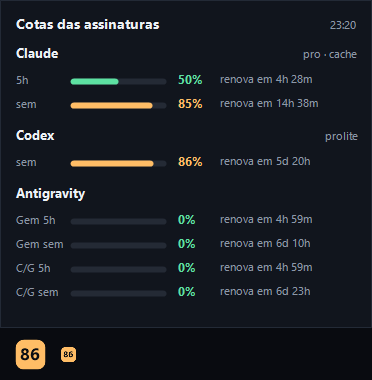
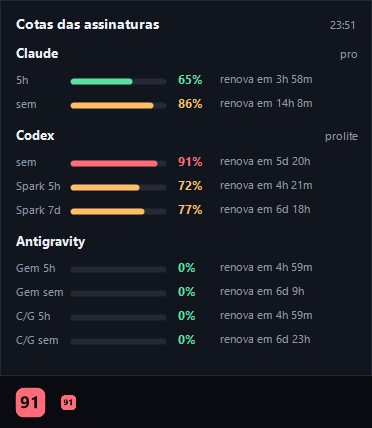
Adiciona cotas do Codex Spark ao TokenBar

diff --git a/src/test/codexSpark.ts b/src/test/codexSpark.ts
@@ -1,0 +1,110 @@
+import * as assert from 'assert/strict';
+import { CodexCollector } from '../collectors/codex';
+import { restoreSnapshot, UsageSnapshot, worstCurrentUsage } from '../usage';
+import { UsageManager } from '../usageManager';
+import { renderDashboard } from '../webview/render';
+
+const NOW = Date.parse('2026-09-06T03:00:00Z');
+const primary = { usedPercent: 40, windowDurationMins: 300, resetsAt: NOW / 1000 + 5 * 3600 };
+const secondary = { usedPercent: 62, windowDurationMins: 10_080, resetsAt: NOW / 1000 + 7 * 86400 };
+const codex = { limitId: 'codex', planType: 'pro', primary: { ...secondary, usedPercent: 20 }, secondary: null };
+const spark = { limitId: 'codex_bengalfox', limitName: 'GPT-5.3-Codex-Spark', planType: 'pro', primary, secondary };
+
+function fixture(response: unknown): CodexCollector {
+  const collector = new CodexCollector();
+  (collector as any).readRateLimits = async () => response;
+  return collector;
+}
+
+export async function runCodexSparkTests(): Promise<number> {
+  let passed = 0;
+  const check = async (name: string, run: () => void | Promise<void>) => {
+    await run(); passed++; console.log(`PASS: ${name}`);
+  };
+
+  await check('Codex inclui Spark sem duplicar a cota principal ou fazer outra consulta', async () => {
+    let calls = 0;
+    const collector = new CodexCollector();
+    (collector as any).readRateLimits = async () => { calls++; return { rateLimits: codex, rateLimitsByLimitId: { codex, codex_bengalfox: spark } }; };
+    const result = await collector.collect();
+    assert.equal(calls, 1); assert.equal(result.status, 'ok'); assert.equal(result.plan, 'pro');
+    assert.deepEqual(result.windows.map(window => window.id), ['codex_primary', 'codex_bengalfox_primary', 'codex_bengalfox_secondary']);
+    assert.deepEqual(result.windows.map(window => window.usedPercent), [20, 40, 62]);
+    assert.deepEqual(result.windows.map(window => window.shortLabel), [undefined, 'Spark 5h', 'Spark 7d']);
+    assert.equal(result.windows[1].label, 'Janela de 5 horas · Spark');
+    assert.equal(result.windows[2].label, 'Janela semanal · Spark');
+    assert.equal(result.windows[1].resetsAt, new Date(primary.resetsAt * 1000).toISOString());
+  });
+
+  await check('Codex prioriza a visão por limite e aceita Spark identificado pela chave ou pelo nome', async () => {
+    for (const bucket of [
+      { ...spark, limitId: null, limitName: null },
+      { ...spark, limitId: 'outro_id_do_modelo' }
+    ]) {
+      const result = await fixture({ rateLimits: { ...codex, primary: { ...primary, usedPercent: 99 } },
+        rateLimitsByLimitId: { codex: { ...codex, limitId: null }, codex_bengalfox: bucket } }).collect();
+      assert.equal(result.windows.length, 3); assert.equal(result.windows[0].usedPercent, 20);
+      assert.equal(result.windows[1].shortLabel, 'Spark 5h');
+      assert.equal(new Set(result.windows.map(window => window.id)).size, 3);
+    }
+  });
+
+  await check('Codex preserva respostas legadas e contas sem Spark sem inventar janelas', async () => {
+    for (const response of [{ rateLimits: codex }, { rateLimitsByLimitId: { codex } }, { rateLimits: codex, rateLimitsByLimitId: null }]) {
+      const result = await fixture(response).collect();
+      assert.equal(result.status, 'ok'); assert.equal(result.windows.length, 1); assert.equal(result.windows[0].shortLabel, undefined);
+    }
+    const empty = await fixture({ rateLimitsByLimitId: {} }).collect();
+    assert.equal(empty.status, 'unavailable'); assert.deepEqual(empty.windows, []);
+    const emptySpark = await fixture({ rateLimits: codex, rateLimitsByLimitId: { codex_bengalfox: { ...spark, primary: null, secondary: null } } }).collect();
+    assert.equal(emptySpark.windows.length, 1);
+  });
+
+  await check('Spark funciona como única cota e não se duplica entre os dois formatos', async () => {
+    for (const response of [
+      { rateLimits: spark },
+      { rateLimitsByLimitId: { codex_bengalfox: spark } },
+      { rateLimits: { ...spark, limitId: null }, rateLimitsByLimitId: { codex_bengalfox: spark } }
+    ]) {
+      const result = await fixture(response).collect();
+      assert.equal(result.windows.length, 2); assert.deepEqual(result.windows.map(window => window.usedPercent), [40, 62]);
+      assert.equal(result.windows[0].shortLabel, 'Spark 5h');
+    }
+  });
+
+  await check('Codex não inclui reservas ou outras cotas junto de Codex e Spark', async () => {
+    const reserve = { ...spark, limitId: 'base_model_inference', limitName: 'gpt-reserve' };
+    const result = await fixture({ rateLimits: codex, rateLimitsByLimitId: { codex, codex_bengalfox: spark,
+      base_model_inference: reserve, other: { ...reserve, limitId: 'other', limitName: 'other' } } }).collect();
+    assert.equal(result.windows.length, 3);
+    const fallback = await fixture({ rateLimitsByLimitId: { base_model_inference: reserve, codex_bengalfox: spark } }).collect();
+    assert.equal(fallback.windows.length, 2); assert.ok(fallback.windows.every(window => window.shortLabel?.startsWith('Spark')));
+  });
+
+  await check('Resposta inválida do Spark mantém o último snapshot válido e recupera depois', async () => {
+    const collector = fixture({ rateLimits: codex, rateLimitsByLimitId: { codex_bengalfox: spark } });
+    const previous = await collector.collect();
+    const manager = new UsageManager({ collectedAt: previous.collectedAt, providers: [previous] }, { collectors: [collector] });
+    for (const invalid of [{ ...primary, usedPercent: 'invalid' }, { ...primary, resetsAt: 'invalid' }, { ...primary, windowDurationMins: -1 }]) {
+      (collector as any).readRateLimits = async () => ({ rateLimits: codex, rateLimitsByLimitId: { codex_bengalfox: { ...spark, primary: invalid } } });
+      await manager.refresh();
+      const result = manager.getSnapshot().providers[0];
+      assert.equal(result.failureKind, 'invalid-response'); assert.equal(result.stale, true);
+      assert.equal(result.collectedAt, previous.collectedAt); assert.deepEqual(result.windows, previous.windows);
+    }
+    (collector as any).readRateLimits = async () => ({ rateLimits: codex, rateLimitsByLimitId: { codex_bengalfox: spark } });
+    await manager.refresh(); assert.equal(manager.getSnapshot().providers[0].status, 'ok');
+  });
+
+  await check('Dashboard, persistência e maior uso reconhecem as janelas do Spark', async () => {
+    const provider = await fixture({ rateLimits: codex, rateLimitsByLimitId: { codex_bengalfox: spark } }).collect();
+    const snapshot: UsageSnapshot = { collectedAt: provider.collectedAt, providers: [provider] };
+    const restored = restoreSnapshot(JSON.parse(JSON.stringify(snapshot)))!;
+    assert.equal(restored.providers[0].windows[2].shortLabel, 'Spark 7d');
+    const html = renderDashboard(restored, { interactive: false, now: NOW });
+    assert.ok(html.includes('Janela de 5 horas · Spark')); assert.ok(html.includes('Janela semanal · Spark'));
+    assert.ok(html.includes('62% usado')); assert.equal(worstCurrentUsage(restored, NOW)?.window.id, 'codex_bengalfox_secondary');
+    assert.equal(worstCurrentUsage(restored, NOW + 8 * 86400_000), undefined);
+  });
+  return passed;
+}

diff --git a/src/collectors/codex.ts b/src/collectors/codex.ts
@@ -20,8 +20,28 @@ interface RateLimitSnapshot {
 }
 
 interface RateLimitResponse {
-  rateLimits: RateLimitSnapshot;
+  rateLimits?: RateLimitSnapshot | null;
   rateLimitsByLimitId?: Record<string, RateLimitSnapshot> | null;
+}
+
+function isSparkLimit(snapshot: RateLimitSnapshot): boolean {
+  return snapshot.limitId === 'codex_bengalfox'
+    || [snapshot.limitId, snapshot.limitName].some(value => typeof value === 'string' && /(?:^|[-_\s])spark(?:$|[-_\s])/i.test(value));
+}
+
+function selectCodexLimits(result: RateLimitResponse): RateLimitSnapshot[] {
+  const buckets = Object.entries(result.rateLimitsByLimitId ?? {})
+    .map(([id, snapshot]) => ({ ...snapshot, limitId: snapshot.limitId ?? id }));
+  const main = buckets.find(snapshot => snapshot.limitId === 'codex') ?? result.rateLimits;
+  const snapshots = new Map<string, RateLimitSnapshot>();
+  const include = (snapshot: RateLimitSnapshot) => snapshots.set(isSparkLimit(snapshot) ? 'spark' : snapshot.limitId ?? 'codex', snapshot);
+  if (main) { include(main); }
+  else {
+    buckets.filter(snapshot => snapshot.limitId !== 'base_model_inference' && snapshot.limitName !== 'gpt-reserve').forEach(include);
+  }
+  // rateLimits é a visão legada; Spark só aparece na visão por limite, na mesma consulta.
+  buckets.filter(isSparkLimit).forEach(include);
+  return [...snapshots.values()];
 }
 
 export class CodexCollector implements UsageCollector {
@@ -30,12 +50,7 @@ export class CodexCollector implements UsageCollector {
   public async collect(_force = false, signal?: AbortSignal): Promise<ProviderSnapshot> {
     try {
       const result = await this.readRateLimits(signal);
-      const mainSnapshot = result.rateLimits ?? result.rateLimitsByLimitId?.codex;
-      const snapshots = mainSnapshot
-        ? [mainSnapshot]
-        : result.rateLimitsByLimitId
-        ? Object.values(result.rateLimitsByLimitId).filter(s => s.limitId !== 'base_model_inference' && s.limitName !== 'gpt-reserve')
-        : [];
+      const snapshots = selectCodexLimits(result);
       const windows: UsageWindow[] = [];
       let plan: string | undefined;
 
@@ -75,9 +90,11 @@ export class CodexCollector implements UsageCollector {
       throw new CollectionError('O Codex retornou um horário de renovação inválido.', 'invalid-response');
     }
     const durationLabel = duration === 300 ? 'Janela de 5 horas' : duration === 10_080 ? 'Janela semanal' : duration ? `Janela de ${this.formatDuration(duration)}` : 'Limite da assinatura';
+    const spark = isSparkLimit(snapshot);
     target.push({
       id: `${snapshot.limitId ?? 'codex'}_${position}`,
-      label: snapshot.limitName ? `${durationLabel} · ${snapshot.limitName}` : durationLabel,
+      label: spark ? `${durationLabel} · Spark` : snapshot.limitName ? `${durationLabel} · ${snapshot.limitName}` : durationLabel,
+      shortLabel: spark ? (duration === 300 ? 'Spark 5h' : duration === 10_080 ? 'Spark 7d' : 'Spark') : undefined,
       usedPercent: clampPercent(window.usedPercent),
       durationMinutes: duration,
       resetsAt: window.resetsAt != null ? new Date(window.resetsAt * 1000).toISOString() : undefined

diff --git a/src/test/test.ts b/src/test/test.ts
@@ -7,6 +7,7 @@ import { VERSION } from '../version';
 import { renderDashboard } from '../webview/render';
 import { runRegressionTests } from './regressions';
 import { runAntigravityTests } from './antigravity';
+import { runCodexSparkTests } from './codexSpark';
 
 let passed = 0;
 let failed = 0;
@@ -116,6 +117,7 @@ async function run(): Promise<void> {
 
   passed += await runRegressionTests();
   passed += await runAntigravityTests();
+  passed += await runCodexSparkTests();
   console.log(`\n${passed} testes passaram; ${failed} falharam.`);
   process.exitCode = failed ? 1 : 0;
 }

diff --git a/docs/arquitetura.md b/docs/arquitetura.md
@@ -33,7 +33,7 @@ O TokenBar tem **três coletores** e **dois consumidores**. Todo o código de re
 | `src/usage.ts` | Tipos do domínio (`UsageWindow`, `ProviderSnapshot`, `UsageSnapshot`), o contrato `UsageCollector` e dois helpers: `unavailable()` e `clampPercent()`. |
 | `src/usageManager.ts` | Orquestra os coletores. Deduplica refreshes concorrentes, guarda o último snapshot e notifica listeners. |
 | `src/collectors/claude.ts` | Lê a sessão OAuth do Claude Code e consulta as janelas de cota. Cache, backoff e tradução de erros. |
-| `src/collectors/codex.ts` | Sobe o `codex app-server` e faz o handshake para ler os limites da conta. |
+| `src/collectors/codex.ts` | Sobe o `codex app-server` e lê a cota principal e as janelas próprias do Spark na mesma consulta. |
 | `src/collectors/antigravity.ts` | Executa `/usage` no CLI oficial, valida TSV, converte restante em usado e preserva cache/esperas. |
 | `src/http.ts` | HTTP com prazo total, cancelamento, limite de tamanho e resposta incompleta. |
 | `src/diagnostics.ts` | Log local com campos permitidos e rotação de dois arquivos de 256 KiB. |
@@ -161,6 +161,17 @@ que a resposta `id: 2` chega, o processo é encerrado — não fica um app-serve
 
 Timeout de 12 s. `finish()` é idempotente: erro, sucesso, `exit` e timeout competem, e só
 o primeiro vale.
+
+`rateLimits` é a visão legada de um único limite; `rateLimitsByLimitId` contém os limites
+separados. `selectCodexLimits()` prefere a entrada `codex` desse mapa e inclui o Spark,
+deduplicando o limite que também veio na visão legada. Se `limitId` estiver ausente,
+preserva a chave do mapa. Reservas e outros limites não são adicionados ao par Codex/Spark.
+
+Spark é reconhecido pelo nome/ID contendo o termo `Spark` ou por `codex_bengalfox`, o ID
+observado no CLI com `limitName: "GPT-5.3-Codex-Spark"`. Continua no provedor `codex`, com
+IDs próprios nas janelas. A duração define `Spark 5h` e `Spark 7d` em `shortLabel`; o
+dashboard usa o nome completo do período. Não há segundo coletor, processo ou chamada.
+Contas sem janelas do Spark continuam mostrando apenas as cotas existentes, sem inventar zero.
 
 ## Coletor Antigravity: comando de cotas
 

diff --git a/README.md b/README.md
@@ -114,6 +114,10 @@ O indicador discreto `cache` e a cor cinza identificam dados antigos. Janelas ve
 ficam sem preenchimento até uma nova coleta, sem presumir 0%. O ícone mostra o maior
 percentual válido, ou `?` quando não há uma leitura atual.
 
+Na seção Codex, `Spark 5h` e `Spark 7d` identificam as cotas próprias do Codex Spark
+quando o CLI as disponibiliza. `7d` é a janela semanal. Elas não são somadas à cota
+principal do Codex; cada linha mantém seu percentual e horário de renovação.
+
 O Antigravity usa quatro linhas curtas: `Gem 5h`, `Gem sem`, `C/G 5h` e `C/G sem`.
 `Gem` é Gemini; `C/G` é Claude/GPT **dentro do Antigravity**, sem misturar essas cotas
 com as assinaturas Claude e Codex. No tooltip, se não couberem todas as janelas, aparece
@@ -164,11 +168,20 @@ consultou o serviço com sucesso. "Atualizar agora" também respeita as duas gua
    `%APPDATA%\npm\codex.cmd` primeiro e depois o PATH).
 2. Troca mensagens JSON por linha: `initialize` (id 1) → `initialized` →
    `account/rateLimits/read` (id 2).
-3. Converte cada janela `primary`/`secondary` de cada limite. A duração devolvida pelo
+3. Usa a visão por limite (`rateLimitsByLimitId`) para preservar a cota principal e a do
+   **Codex Spark**, sem duplicar a visão legada `rateLimits`. A consulta e o processo são
+   os mesmos; não há chamada adicional para o Spark.
+4. Converte cada janela `primary`/`secondary` de cada limite. A duração devolvida pelo
    serviço identifica a janela: 300 min → "5 horas", 10080 min → "semanal", qualquer outro
    valor vira um rótulo genérico. O processo é encerrado assim que a resposta chega.
 
 Timeout de 12 s. Se o CLI não existir, o provedor aparece como indisponível — não como erro.
+
+O [Codex Spark tem limites próprios](https://learn.chatgpt.com/docs/agent-configuration/speed#codex-spark).
+As linhas só aparecem quando o CLI retorna suas janelas: ausência desse limite não é
+tratada como 0% usado. Percentuais e renovações vêm de
+[`account/rateLimits/read`](https://learn.chatgpt.com/docs/app-server#6-rate-limits-chatgpt),
+sem iniciar uma conversa nem consumir uma geração do modelo.
 
 ### Antigravity
 

diff --git a/CONTRIBUTING.md b/CONTRIBUTING.md
@@ -114,6 +114,8 @@ validação. Os testes usam credenciais sintéticas e HTTP em loopback, sem cons
 reais. `src/test/tray.test.ps1` importa `tray/state.ps1` sem iniciar a GUI nem o daemon.
 `src/test/antigravity.ts` cobre o TSV, conversão restante/usado, grupos, cache, reinício,
 limitação de consultas, erros sanitizados e isolamento do novo provedor, sem executar o CLI real.
+`src/test/codexSpark.ts` cobre a seleção e deduplicação dos limites Codex/Spark, respostas
+legadas, contas sem Spark, validação, recuperação, persistência e apresentação, com respostas sintéticas.
 
 Para conferir a apresentação de cenários sintéticos:
 `tray\tokenbar.ps1 -PreviewPath saida.png -SnapshotFile exemplo.json`.

diff --git a/CHANGELOG.md b/CHANGELOG.md
@@ -7,6 +7,15 @@ adota [Versionamento Semântico](https://semver.org/lang/pt-BR/).
 
 ## [Não publicado]
 
+### Codex Spark
+
+- Inclui as cotas próprias do Codex Spark, antes ignoradas quando a resposta também
+  continha o limite principal do Codex.
+- Mostra `Spark 5h` e `Spark 7d` na seção Codex da bandeja, mantendo a largura compacta,
+  sem somar cotas nem duplicar a consulta ao CLI.
+- Preserva respostas legadas e contas sem Spark; adiciona testes de seleção, deduplicação,
+  validação, recuperação, persistência e apresentação, além das novas capturas dos painéis.
+
 ### Antigravity
 
 - Adiciona cotas pelo comando `/usage` do CLI oficial `agy`, sem ler credenciais do Google.
